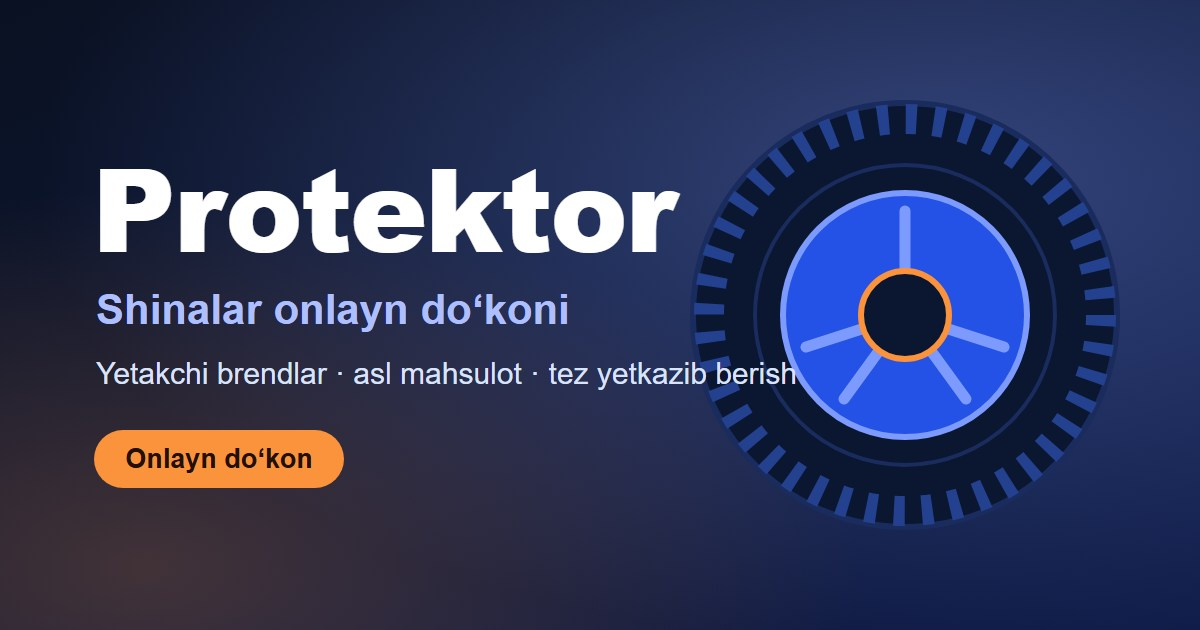
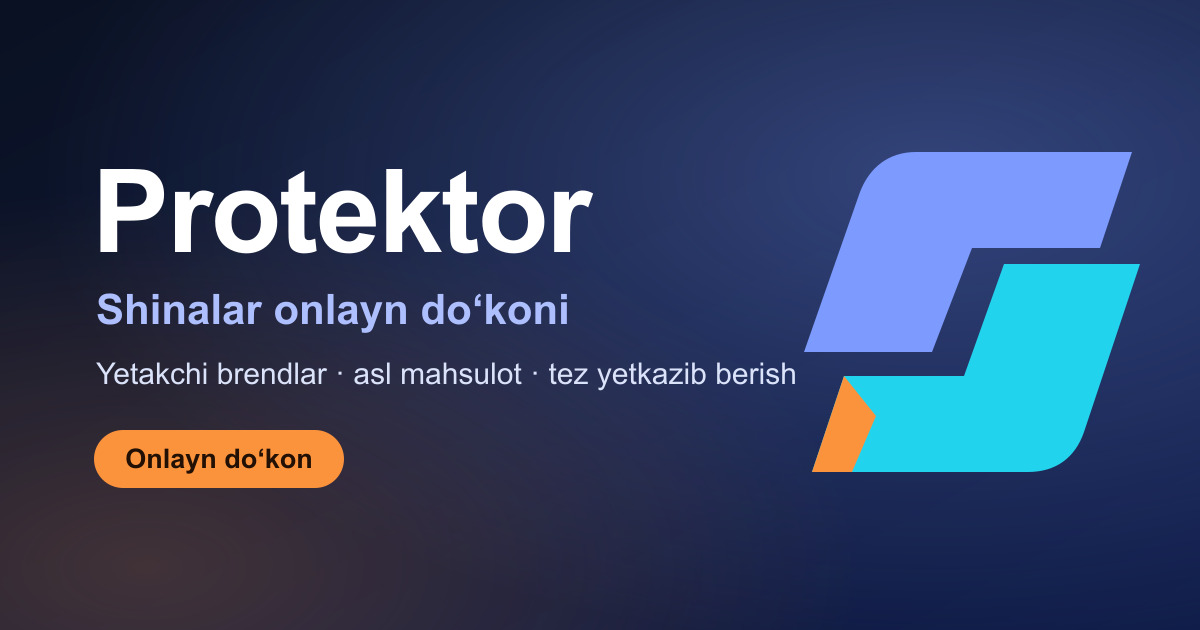
frontend: redesign Protektor identity

diff --git a/shina-magazin-front/src/components/brand/Logo.tsx b/shina-magazin-front/src/components/brand/Logo.tsx
@@ -4,13 +4,13 @@ import clsx from 'clsx';
  * Protektor brend belgisi — yagona manba.
  * Eski placeholderlar o'rnini bosadi: Sidebar "S", Footer "SM", portal login 🚗, /vite.svg.
  *
- * - `mark`     — faqat logotip (P monogramma + protektor + kontakt-patch)
+ * - `mark`     — faqat logotip (ikki track ribbon + kontakt wedge)
  * - `lockup`   — logotip + "Protektor" so'z belgisi (default)
  * - `wordmark` — faqat matn
  *
- * Monogramma va protektor `currentColor`'ni meros qiladi (text-primary), shuning
- * uchun temaga mos qayta bo'yaladi. Pastki "patch" `tone`'ga qarab: do'konda
- * orange (energiya), ERP'da xotirjam primary tint.
+ * Birinchi ribbon `currentColor`'ni meros qiladi (text-primary), ikkinchisi
+ * accent, kontakt wedge esa secondary token bilan bo'yaladi. Shu sababli belgi
+ * shina / shina-dark temalariga avtomatik moslashadi.
  */
 
 type LogoVariant = 'mark' | 'lockup' | 'wordmark';
@@ -29,31 +29,27 @@ interface LogoProps {
 }
 
 function LogoMark({ tone = 'erp', className }: { tone?: LogoTone; className?: string }) {
-  const patchClass = tone === 'shop' ? 'fill-secondary' : 'fill-primary/30';
-
   return (
     <svg
       viewBox="0 0 48 48"
       fill="none"
       role="img"
       aria-hidden="true"
+      data-tone={tone}
       className={clsx('h-full w-full', className)}
     >
-      {/* Compact tire arc: it also reads as a sturdy P at favicon size. */}
+      {/* Primary track: tire contact path and forward business flow. */}
       <path
         fill="currentColor"
-        fillRule="evenodd"
-        d="M14 4.5h10.5C35 4.5 42.5 12 42.5 22S35 39.5 24.5 39.5H18v-9h6.5c5.7 0 9.5-3.3 9.5-8.5s-3.8-8.5-9.5-8.5H22V44h-8V4.5Z"
-        clipRule="evenodd"
+        d="M17 4h27l-4 12H24l-5 13H3L10 9c1.2-3.1 3.6-5 7-5Z"
       />
-
-      {/* Three tread blocks make the automotive cue specific without drawing a wheel. */}
-      <path fill="currentColor" d="M5.5 10.5 13 6.2v6.5l-8.2 4.7.7-6.9Z" />
-      <path fill="currentColor" d="m4.4 20 8.6-5v6.5l-9.2 5.3.6-6.8Z" />
-      <path fill="currentColor" d="m3.6 29.6 9.4-5.4v6.5l-9.9 5.7.5-6.8Z" />
-
-      {/* Contact patch: signal-orange in the shop, restrained in ERP. */}
-      <path d="M14 38.5h8V44h-8z" className={patchClass} />
+      {/* Secondary track: synced inventory / sales lane. */}
+      <path
+        className="fill-accent"
+        d="M31 18h14l-7 21c-1.1 3.2-3.5 5-7 5H4l4-12h15l5-14h3Z"
+      />
+      {/* Signal point where rubber, road and transaction meet. */}
+      <path className="fill-secondary" d="m4 44 4-12 4 5-3 7H4Z" />
     </svg>
   );
 }
